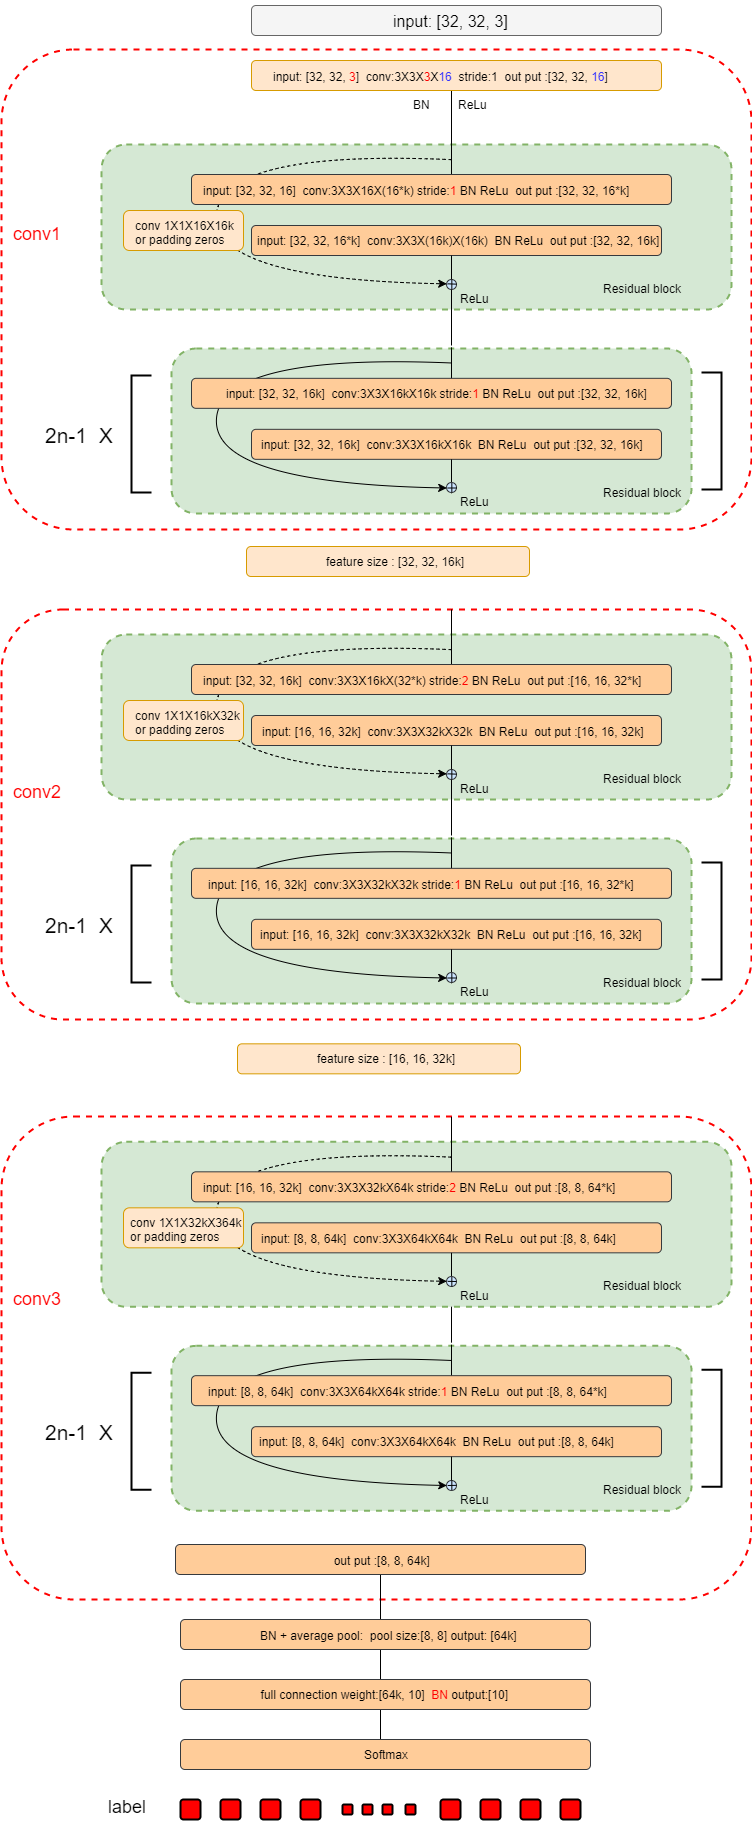
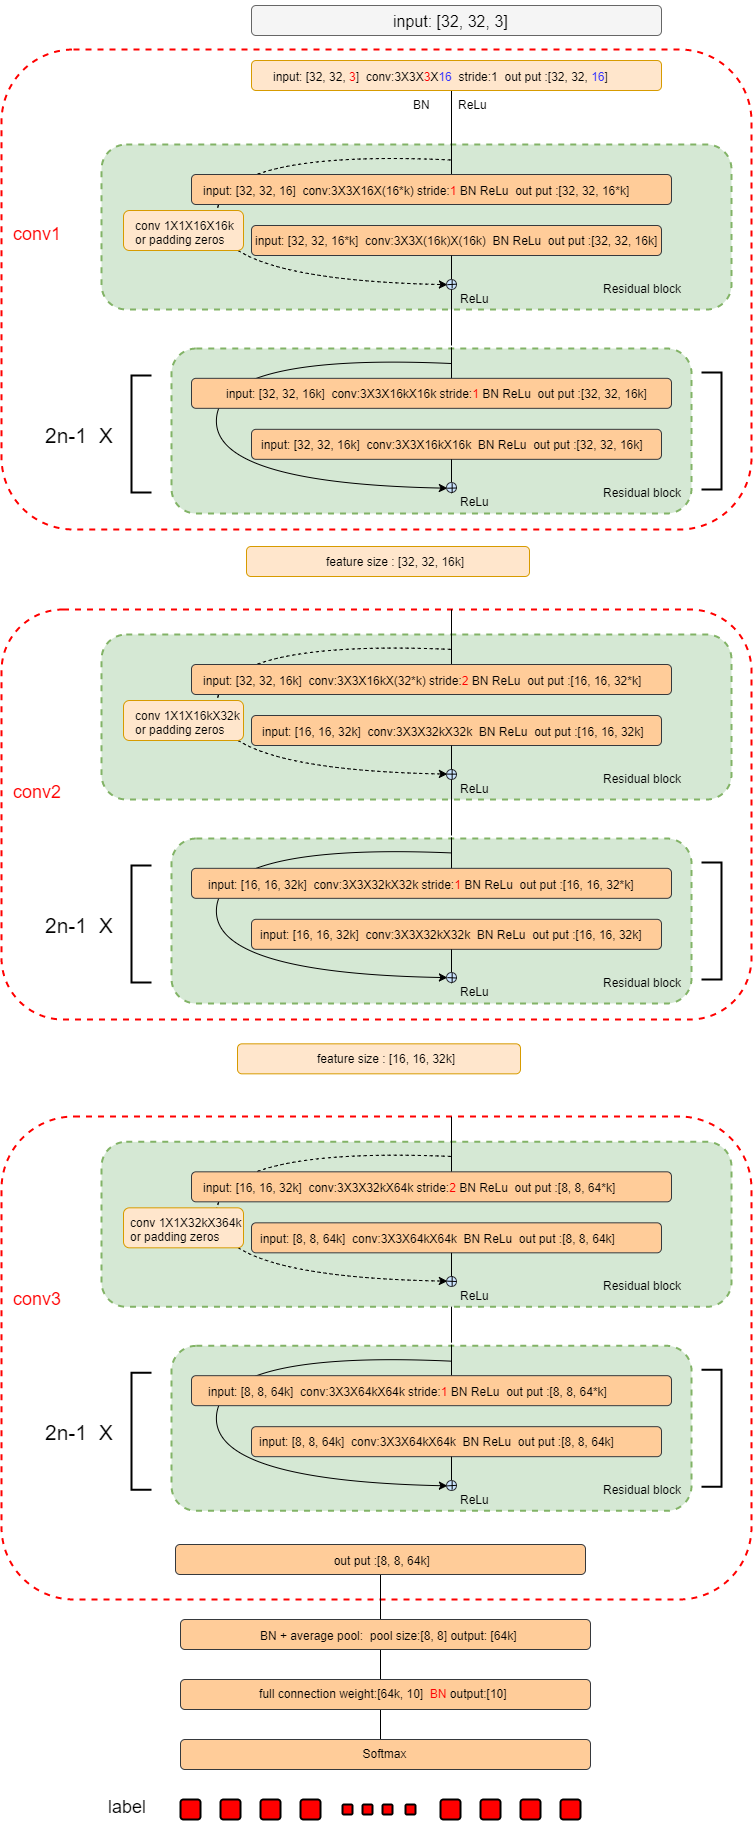
duanyzhi.github.io

diff --git a/_posts/2017-11-14-ResNet.md b/_posts/2017-11-14-ResNet.md
@@ -32,7 +32,7 @@ title: ResNet
 
 cifar10模型：
 
-![resnet_cifar10](https://i.imgur.com/Wo644Fm.png)
+![resnet_cifar10](https://i.imgur.com/DV7FwvX.png)
 
 当输入是cifar10是，卷积部分分为三块，总共卷积层有6n+2层。比如我是50层cnn，那么n=8. 一共分为三个大卷积块和一个全连接。所有的卷积核大小都是[3, 3]
 
